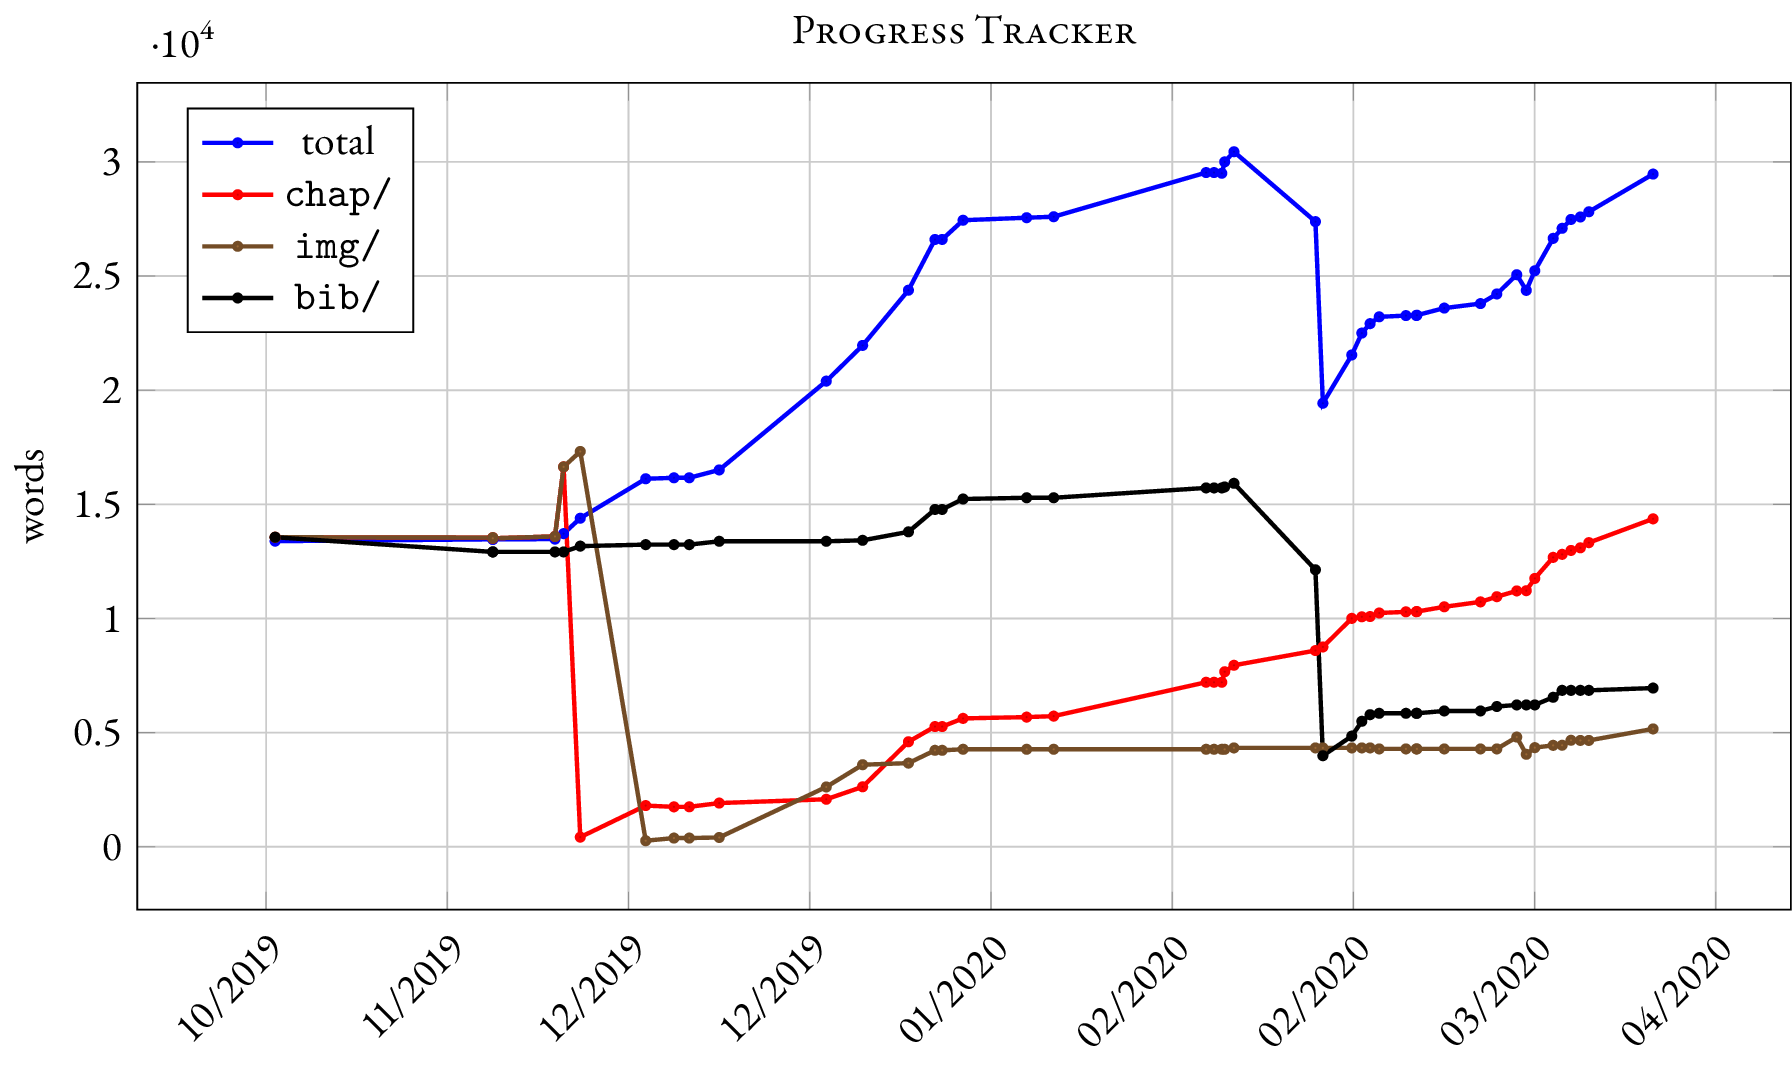
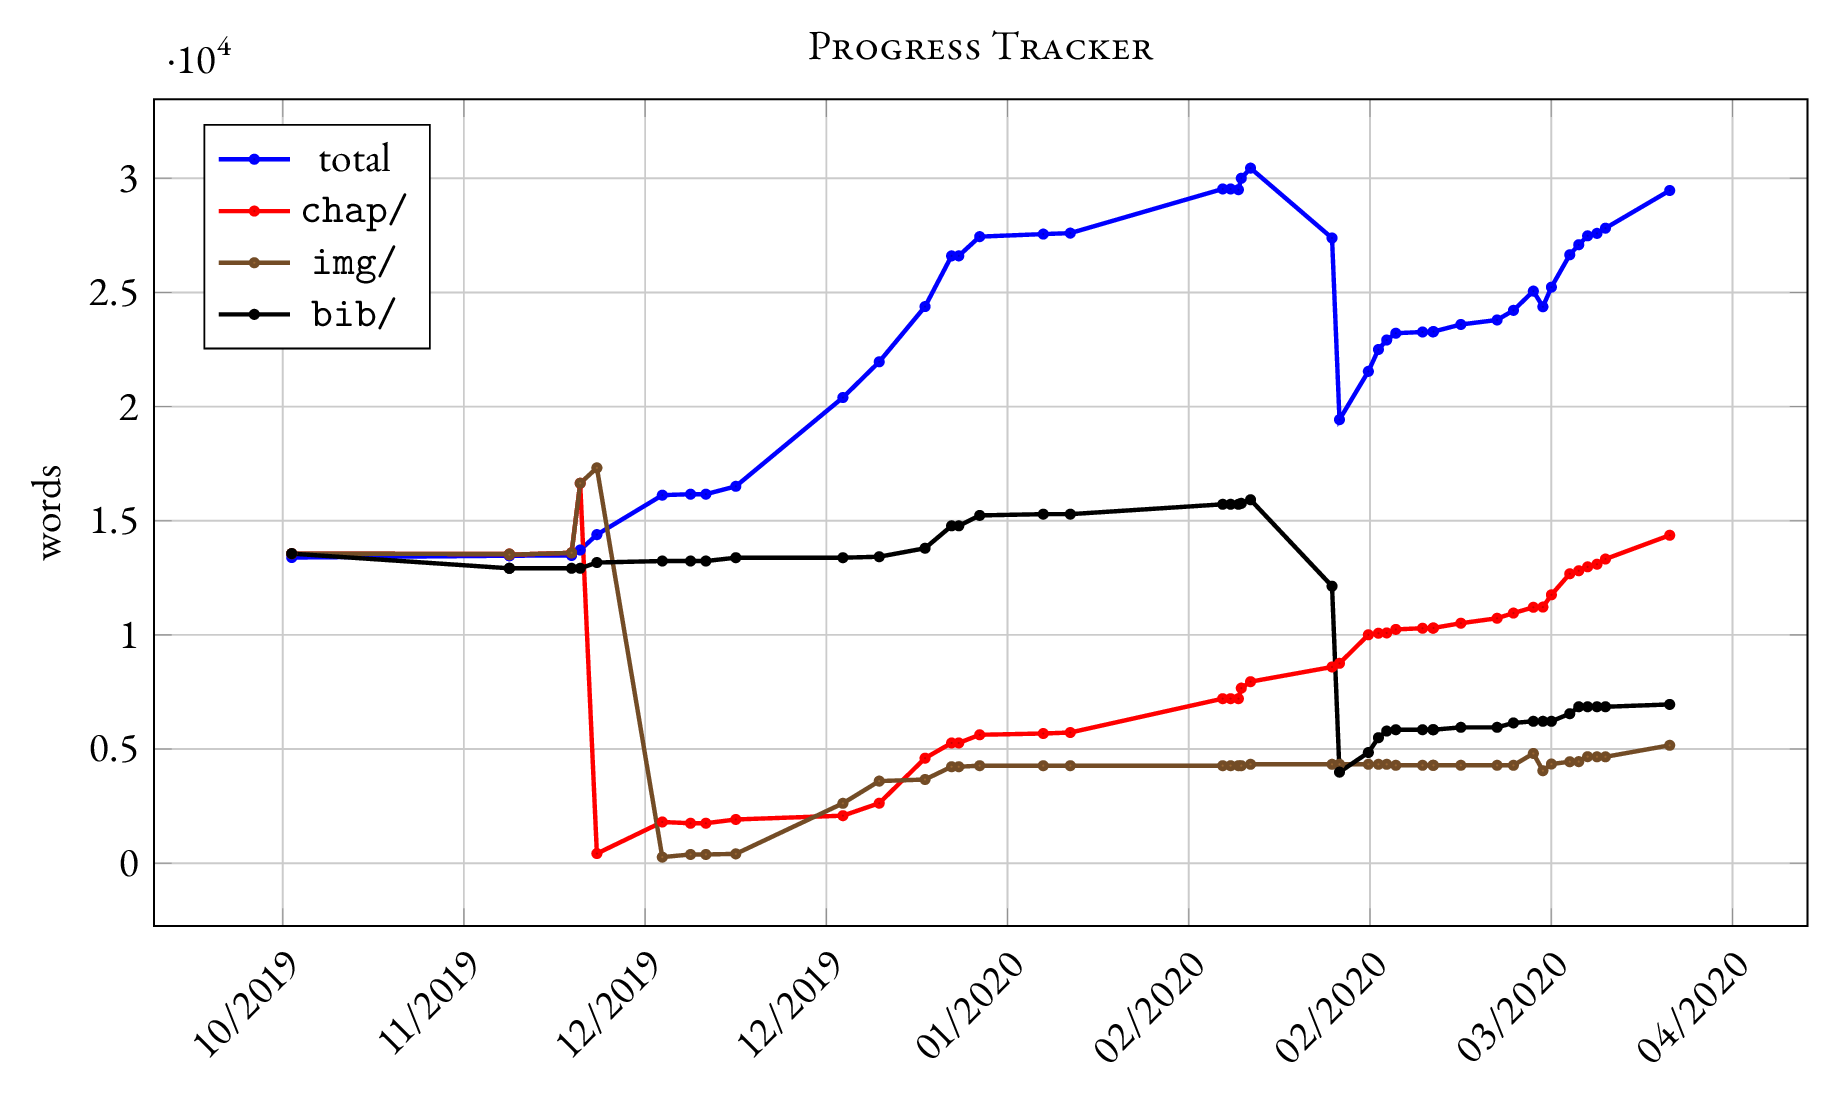
[pertoldi@lxpertoldi.pd.infn.it] Sun Mar 29 16:35:06 CEST 2020

diff --git a/.github/progress.tex b/.github/progress.tex
@@ -4,9 +4,24 @@
 \usepackage[math-style=ISO, bold-style=ISO]{unicode-math}
 \setmathfont{Garamond-Math.otf}
 \usepackage{pgfplots}
+\usetikzlibrary{backgrounds}
 \usepgfplotslibrary{dateplot}
 \pgfplotsset{compat=1.3}
 \input{../src/tex/paultolcolors}
+
+\definecolor{graphicbackground}{rgb}{1,1,1}
+\pgfkeys{/tikz/.cd,
+  background color/.initial=graphicbackground,
+  background color/.get=\backcol,
+  background color/.store in=\backcol,
+}
+\tikzset{background rectangle/.style={
+    fill=\backcol,
+  },
+  use background/.style={
+    show background rectangle
+  }
+}
 
 \pgfplotsset{
   width=14cm, height=7cm,
@@ -20,7 +35,7 @@
 ]
 
 \begin{document}
-  \begin{tikzpicture}
+  \begin{tikzpicture}[use background]
     \begin{axis}[
       title={\textsc{Progress Tracker}},
       ylabel={words},
